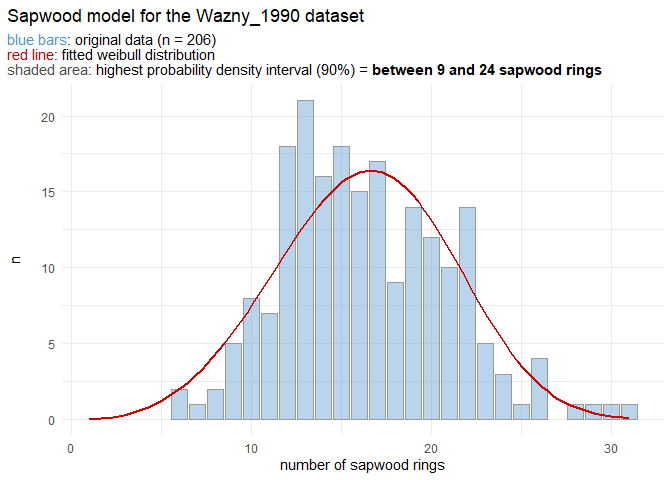
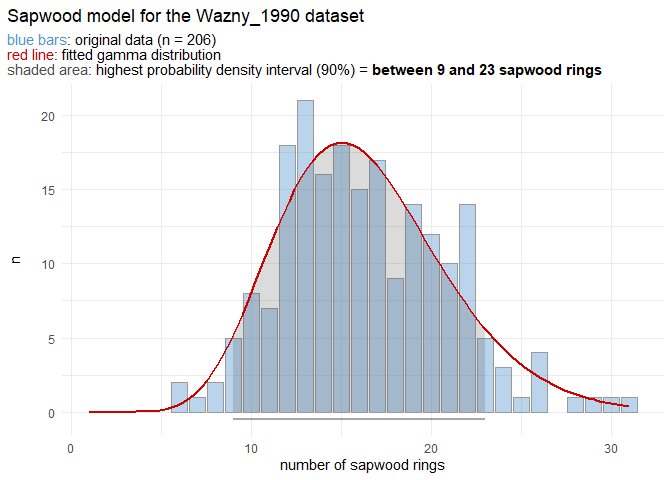
fix geom_ribbon in sw_model ([[]] instead of [])

diff --git a/README.md b/README.md
@@ -171,8 +171,9 @@ sw_data_overview()
 
 ### sw_data_info
 
-More information on one of the sawpood data sets - how to cite, the area
-they represent, etc. - can be retrieved by the `sw_data_info` function.
+More information on one of the sawpood data sets - how to cite the data
+set, the area the data represents, the number of observations and some
+basic summary stats - can be retrieved by the `sw_data_info` function.
 
 ``` r
 
@@ -234,13 +235,13 @@ sapwood data set should be one of:
 -   “lognormal” (the default value),
 -   “normal”,
 -   “weibull”,
--   “gammma”.
+-   “gamma”.
 
 The credible interval should be a value between 0 and 1.
 
 ``` r
 
-sw_model("Wazny_1990", densfun = "weibull", credMass= .90, plot = TRUE)
+sw_model("Wazny_1990", densfun = "gamma", credMass= .90, plot = TRUE)
 #> Warning in densfun(x, parm[1], parm[2], ...): NaNs produced
 ```
 
